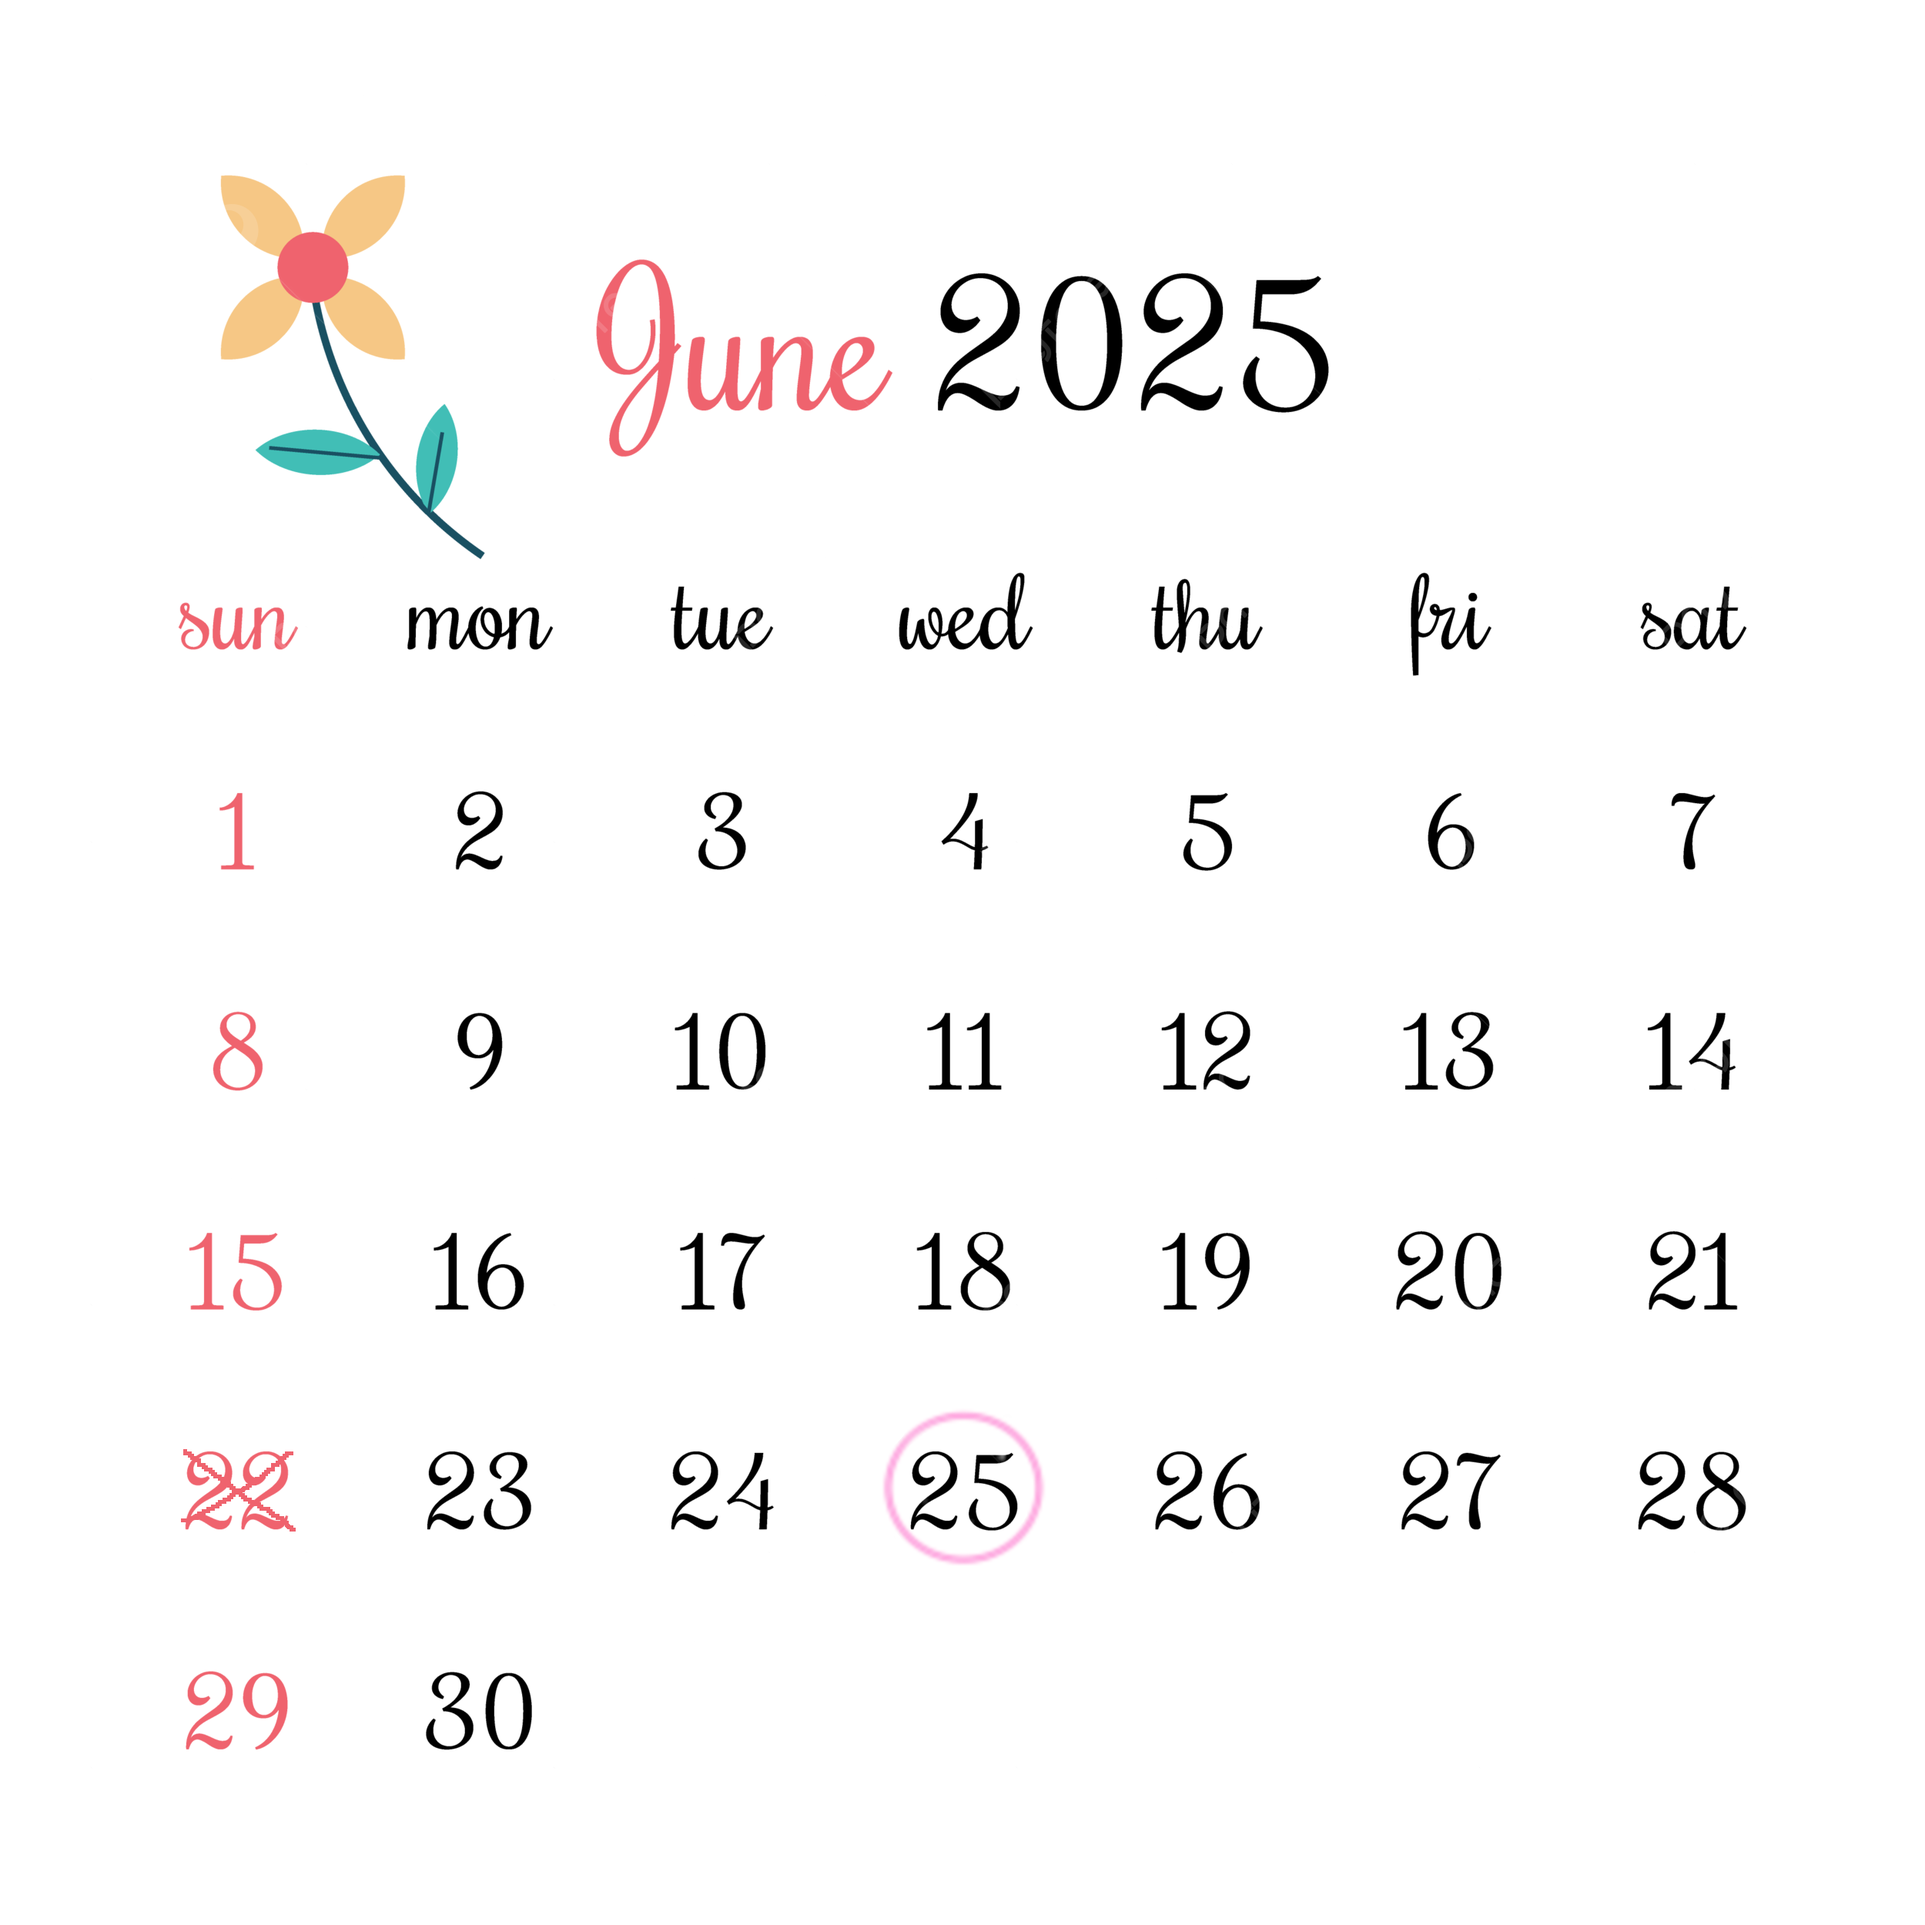
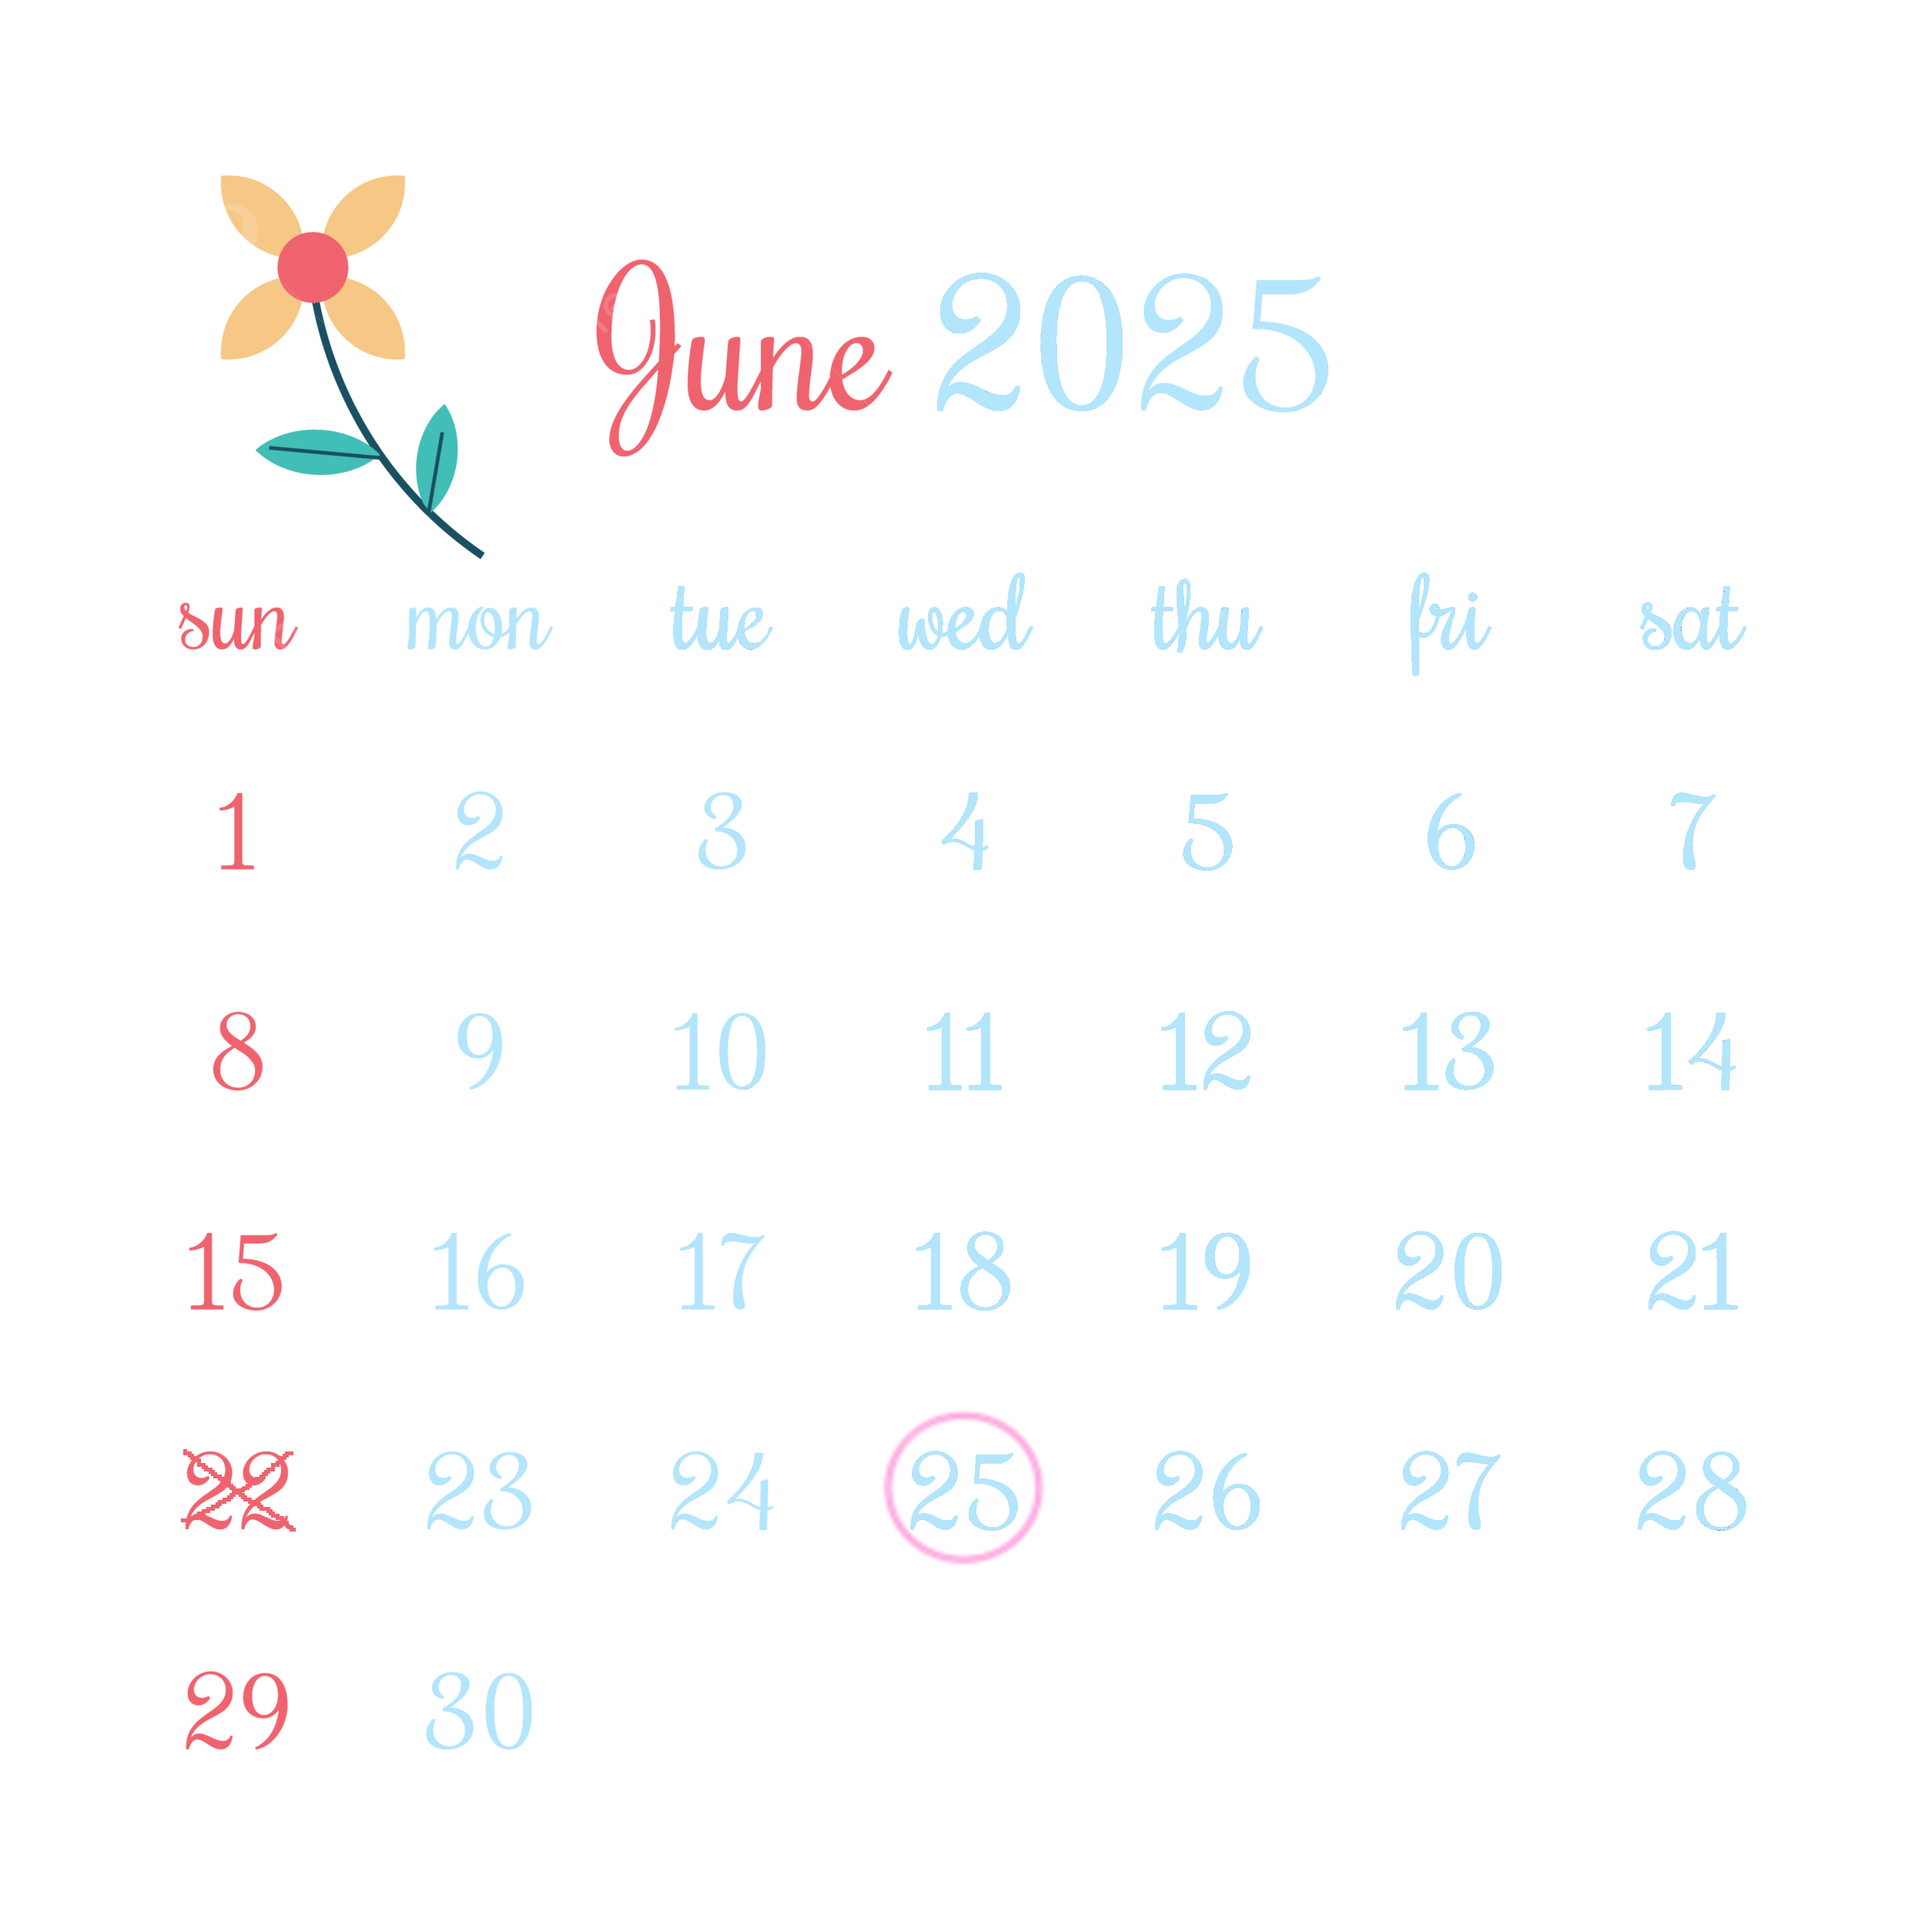
cambio de colores

diff --git a/index.html b/index.html
@@ -6,11 +6,11 @@
   <title>for my girlfriend <3 </title>
   <style>
     body {
-      background: linear-gradient(135deg, #b3e5fc, #e1f5fe);
+      background: linear-gradient(135deg, #045, #377);
       font-family: 'Segoe UI', sans-serif;
       text-align: center;
       padding: 50px;
-      color: #045;
+      color: #b3e5fc;
       overflow-x: hidden;
     }
 
@@ -22,7 +22,7 @@
     h2 {
       font-size: 1.2em;
       font-weight: normal;
-      color: #377;
+      color: #b3e5fc;
     }
 
     .calendar-img, .extra-img {
@@ -55,17 +55,36 @@
 <body>
   <div class="confetti">✨ 🐉 ✨</div>
 
-  <h1>Faltan solo 2 días para tu cumpleaños</h1>
+  <h1 id="countdown-title">Calculando...</h1>
   <h2>La conmemoración anual de la creación de la cosita más bonita de este mundo 🌎💖</h2>
 
   <img class="calendar-img" src="junio-25.png" alt="Calendario junio con el día 25 subrayado" />
 
   <p class="message">
-    Quiero hacerte saber que sos increíble y que estoy muy agradecido de tenerte en mi vida, me gustaría iniciar esta cuenta regresiva regalandote una subscripción lunita 🌙
+    Quiero hacerte saber que sos increíble y que estoy muy agradecido de tenerte en mi vida, me gustaría iniciar esta cuenta regresiva regalándote una subscripción lunita 🌙
   </p>
 
   <img class="extra-img" src="Abby.png" alt="Imagen decorativa o mensaje especial" />
 
   <p style="margin-top: 30px;">Con cariño, Rocelindo 🎈</p>
+
+  <script>
+    function updateCountdown() {
+      const now = new Date();
+      const targetDate = new Date(Date.UTC(2025, 5, 25, 3, 0, 0)); // 25 junio 2025 00:00 UTC-3
+      const diffMs = targetDate - now;
+      const diffHours = Math.floor(diffMs / (1000 * 60 * 60));
+
+      const title = document.getElementById("countdown-title");
+      if (diffHours > 0) {
+        title.textContent = `Faltan solo ${diffHours} hora${diffHours === 1 ? '' : 's'} para tu cumpleaños`;
+      } else {
+        title.textContent = "¡Feliz cumpleaños! 🎂";
+      }
+    }
+
+    updateCountdown();
+    setInterval(updateCountdown, 60 * 1000);
+  </script>
 </body>
 </html>
